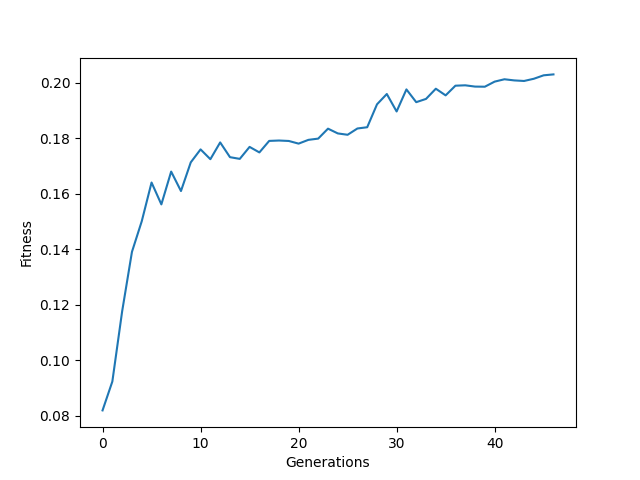
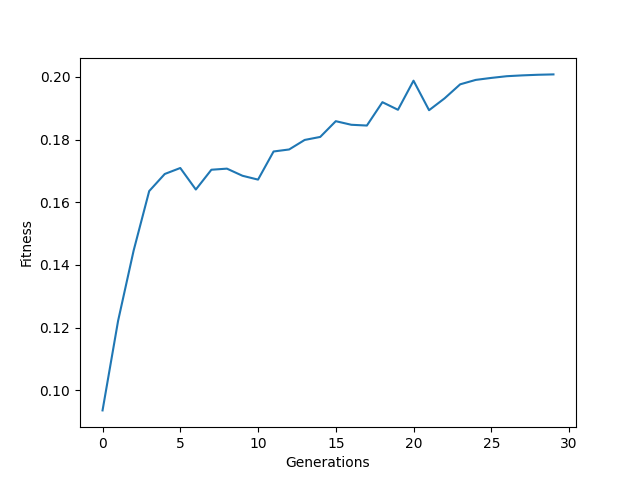
everything is ready for the ppt

diff --git a/main.py b/main.py
@@ -31,16 +31,7 @@ n_elements = 50
 
 #combined case
 #{'MaxIter': False, 'EqualFunVals': False, 'ConditionCov': True, 'NoEffectCoor': False, 'Stagnation': False, 'TolXUp': False}
-# b_coeff_and_lambda_percentage = [1.17293510e+02,2.86312534e+02,4.30534094e+02,4.85093523e+02,1.49971895e+02,2.74094314e-01]
-# b_coeff = [0,0,0,0,0,0] #in N
-# b_coeff[1:5] = b_coeff_and_lambda_percentage[0:4]
-# wave_length = b_coeff_and_lambda_percentage[4] #in cm
-# percent_crawling = b_coeff_and_lambda_percentage[-1] / 100
-# percent_crawling /= 100 #obtain input for run fuction in digital form instead of percentage
-# wave_length /= 100 #obtain wave_length in meters
-
-#test around
-b_coeff_and_lambda_percentage = [174.72321114,254.19679463,411.91380427,292.05419199,141.12135051,3.87812994]
+b_coeff_and_lambda_percentage = [1.17293510e+02,2.86312534e+02,4.30534094e+02,4.85093523e+02,1.49971895e+02,2.74094314e-01]
 b_coeff = [0,0,0,0,0,0] #in N
 b_coeff[1:5] = b_coeff_and_lambda_percentage[0:4]
 wave_length = b_coeff_and_lambda_percentage[4] #in cm
@@ -48,6 +39,15 @@ percent_crawling = b_coeff_and_lambda_percentage[-1] / 100
 percent_crawling /= 100 #obtain input for run fuction in digital form instead of percentage
 wave_length /= 100 #obtain wave_length in meters
 
+#test around
+# b_coeff_and_lambda_percentage = [174.72321114,254.19679463,411.91380427,292.05419199,141.12135051,3.87812994]
+# b_coeff = [0,0,0,0,0,0] #in N
+# b_coeff[1:5] = b_coeff_and_lambda_percentage[0:4]
+# wave_length = b_coeff_and_lambda_percentage[4] #in cm
+# percent_crawling = b_coeff_and_lambda_percentage[-1] / 100
+# percent_crawling /= 100 #obtain input for run fuction in digital form instead of percentage
+# wave_length /= 100 #obtain wave_length in meters
+
 distance_traveled = run_snake(b_coeff=b_coeff,wave_length=wave_length,percent_crawling=percent_crawling,\
-                                  SAVE_VIDEO=False, xlim=(0,5), n_elements=20,run_time=1)
+                                  SAVE_VIDEO=True, xlim=(0,5), n_elements=50,run_time=5)
 

diff --git a/CMA_STP_Par.py b/CMA_STP_Par.py
@@ -329,7 +329,7 @@ Fifth: wave length in centimeters, so DIVIDE by 100 to get the correct length in
 Sixth: percentage of crawling in % so DIVIDE by 100 to get the correct percentage in digital form.
 """
 def run():
-    sigma = 40
+    sigma = 30
     pop_size = 80
     initial_mean = np.array([250, 250, 250, 250, 0, 50])
     snake_optimization = CMAES(initial_mean=initial_mean, sigma=sigma, popsize=pop_size, generations=250, reverse=True)
